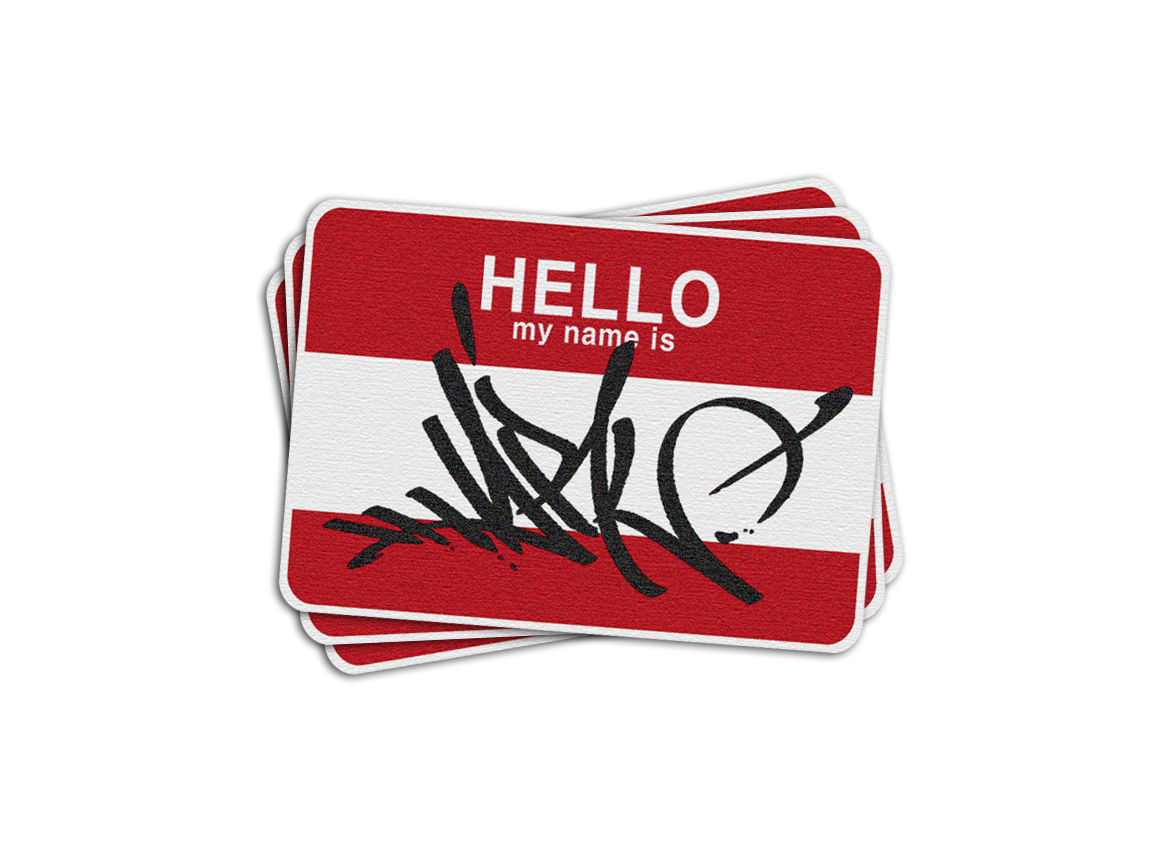
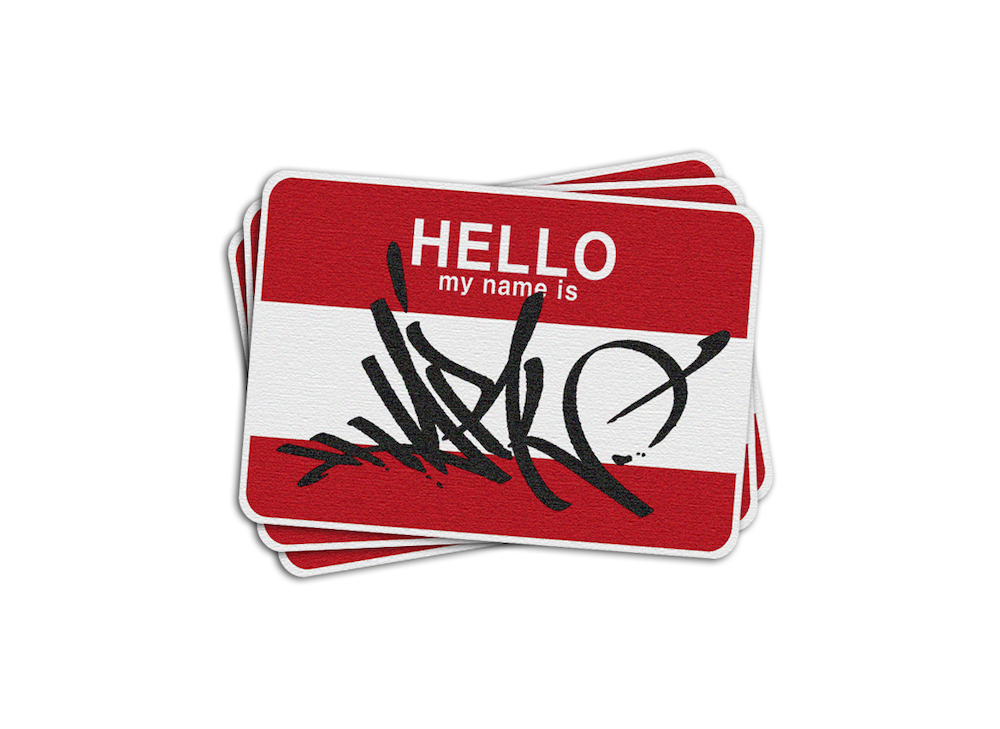
그래피티 이미지 용량 이슈때문에 사이즈 줄임

Changed region(s): [[0.558, 0.2414, 0.651, 0.2716], [0.341, 0.7243, 0.372, 0.7545]]

diff --git a/src/components/sections/TwoXP70Modal.tsx b/src/components/sections/TwoXP70Modal.tsx
@@ -13,16 +13,16 @@ export const twoXP70GalleryImages: GalleryImageDef[] = [
   { src: "/image/_MG_2851.jpg", alt: "그래피티 아카이브 4" },
   { src: "/image/IMG_7845.jpg", alt: "그래피티 아카이브 5" },
   { src: "/image/graffiti_yoons.jpg", alt: "그래피티 아카이브 6" },
-  { src: "/image/graffiti_archive/graffiti_0.png", alt: "그래피티 추가 0" },
-  { src: "/image/graffiti_archive/graffiti_5.png", alt: "그래피티 추가 5" },
-  { src: "/image/graffiti_archive/graffiti_6.png", alt: "그래피티 추가 6" },
-  { src: "/image/graffiti_archive/graffiti_7.png", alt: "그래피티 추가 7" },
-  { src: "/image/graffiti_archive/graffiti_8.JPG", alt: "그래피티 추가 8" },
-  { src: "/image/graffiti_archive/graffiti_9.png", alt: "그래피티 추가 9" },
+  { src: "/image/graffiti_archive/graffiti_0.png?v=2", alt: "그래피티 추가 0" },
+  { src: "/image/graffiti_archive/graffiti_5.png?v=2", alt: "그래피티 추가 5" },
+  { src: "/image/graffiti_archive/graffiti_6.png?v=2", alt: "그래피티 추가 6" },
+  { src: "/image/graffiti_archive/graffiti_7.png?v=2", alt: "그래피티 추가 7" },
+  { src: "/image/graffiti_archive/graffiti_8.JPG?v=2", alt: "그래피티 추가 8" },
+  { src: "/image/graffiti_archive/graffiti_9.png?v=2", alt: "그래피티 추가 9" },
   { src: "/image/graffiti_archive/graffiti_10.jpg", alt: "그래피티 추가 10" },
-  { src: "/image/graffiti_archive/graffiti_11.jpg", alt: "그래피티 추가 11" },
+  { src: "/image/graffiti_archive/graffiti_11.jpg?v=2", alt: "그래피티 추가 11" },
   { src: "/image/graffiti_archive/graffiti_12.jpg", alt: "그래피티 추가 12" },
-  { src: "/image/graffiti_archive/graffiti_13.png", alt: "그래피티 추가 13" },
+  { src: "/image/graffiti_archive/graffiti_13.png?v=2", alt: "그래피티 추가 13" },
 ];
 
 export function TwoXP70ModalContent() {

diff --git a/src/components/sections/ToyLabModal.tsx b/src/components/sections/ToyLabModal.tsx
@@ -32,9 +32,9 @@ export const toyLabGalleryImages: GalleryImageDef[] = [
   { src: "/image/asset_81ec92eb.png", alt: "김밥왕 브로슈어 5" },
   { src: "/image/asset_f68c6c52.png", alt: "김밥왕 브로슈어 6" },
   // Noise
-  { src: "/image/noise_2.jpg", alt: "Noise 이미지 1" },
+  { src: "/image/noise_2.jpg?v=2", alt: "Noise 이미지 1" },
   { src: "/image/noise_3_left.jpg", alt: "Noise 이미지 왼쪽" },
-  { src: "/image/noise_3_right.jpg", alt: "Noise 이미지 오른쪽" },
+  { src: "/image/noise_3_right.jpg?v=2", alt: "Noise 이미지 오른쪽" },
   // 그외 디자인 아카이브
   { src: "/image/toylab_archive/ci_1.png", alt: "CI 1" },
   { src: "/image/toylab_archive/ci_2.png", alt: "CI 2" },
